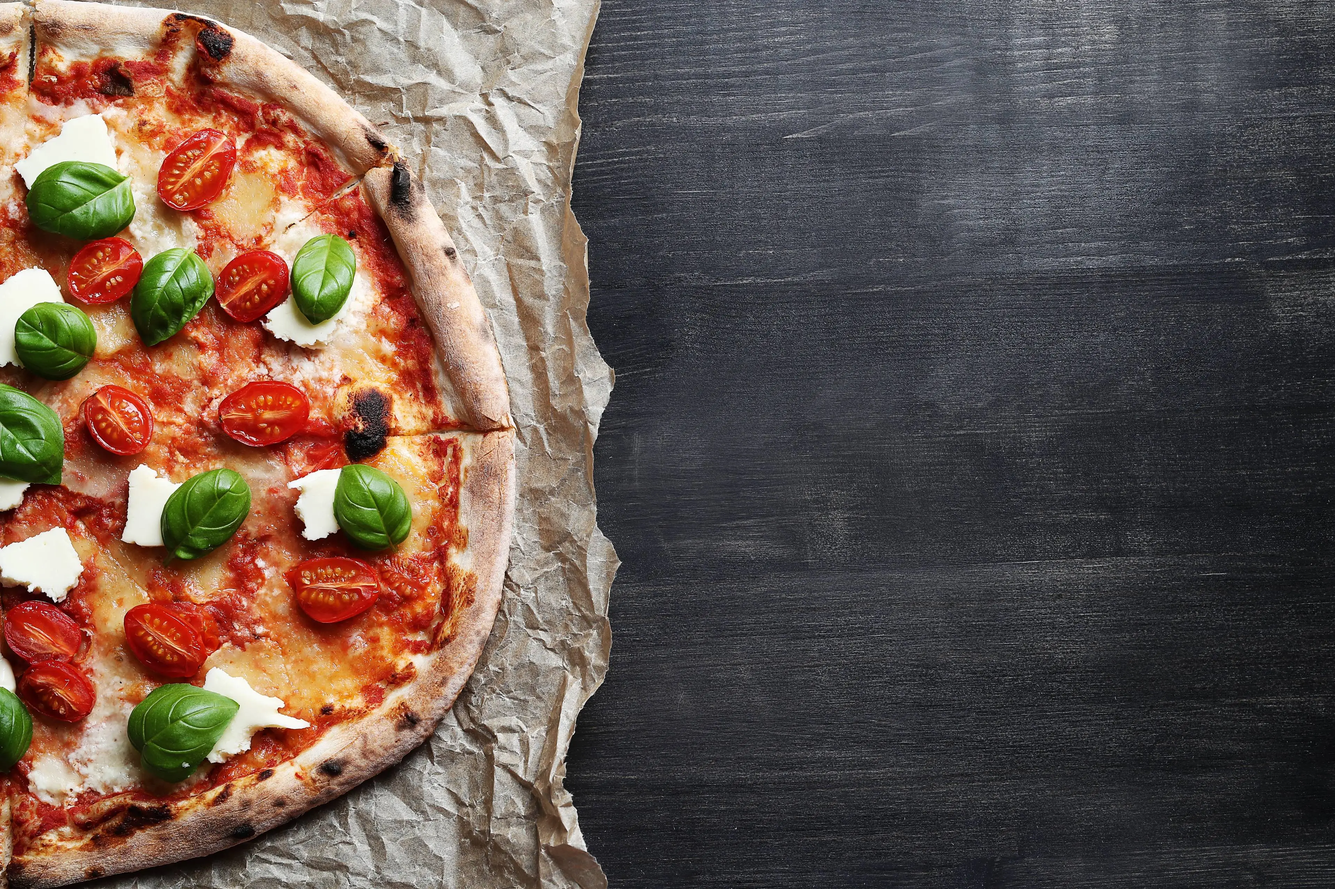
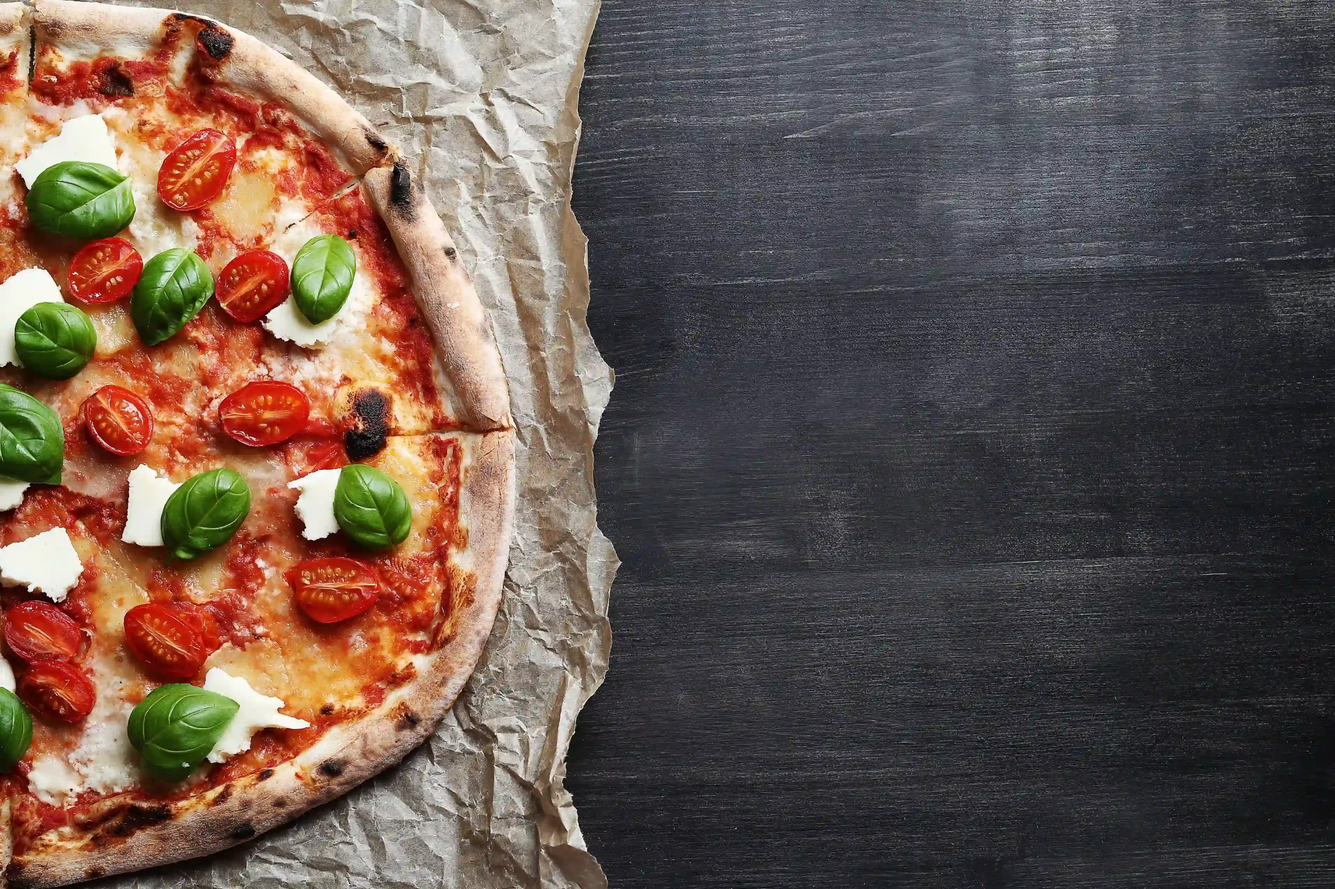
image size converted

diff --git a/src/pages/Home/MenuContent/MenuContent.js b/src/pages/Home/MenuContent/MenuContent.js
@@ -2,9 +2,9 @@ import React, { useState } from "react";
 import { Link } from "react-router-dom";
 import MenuItem from "../../Menu/MenuItems/MenuItem/MenuItem";
 import { getDataByType } from "../../../data/productsData";
-import PizzaImg from "../../../asset/homePage/top-view-italian-pizza-sticker-white-background-removebg.png";
-import SpaghettiImg from "../../../asset/homePage/top-view-paghetti-carbonara-dish-sticker-white-removebg.png";
-import ReisgerichteImg from "../../../asset/homePage/detailed-gopalkala-illustration-removebg.png";
+import PizzaImg from "../../../asset/homePage/top-view-italian-pizza-sticker-white-background-removebg-low.webp";
+import SpaghettiImg from "../../../asset/homePage/top-view-paghetti-carbonara-dish-sticker-white-removebg-low.webp";
+import ReisgerichteImg from "../../../asset/homePage/detailed-gopalkala-illustration-removebg-low.webp";
 
 import "./MenuContent.css";
 
@@ -28,7 +28,14 @@ const MenuContent = () => {
       <div className="home-cards-holder">
         <div className="home-item">
           <div className="middle-circle" />
-          <img className="pizza-img" alt="Pizza" src={PizzaImg}></img>
+          <img
+            className="pizza-img"
+            alt="Pizza"
+            src={PizzaImg}
+            loading="lazy"
+            sizes="200px"
+            srcSet={PizzaImg + " 200w"}
+          ></img>
           <MenuItem
             key={getDataByType("Pizza")[randomPizza].id}
             data={getDataByType("Pizza")[randomPizza]}
@@ -36,7 +43,14 @@ const MenuContent = () => {
         </div>
         <div className="home-item">
           <div className="middle-circle" />
-          <img className="pizza-img" alt="Spaghetti" src={SpaghettiImg}></img>
+          <img
+            className="pizza-img"
+            alt="Spaghetti"
+            src={SpaghettiImg}
+            loading="lazy"
+            sizes="200px"
+            srcSet={SpaghettiImg + " 200w"}
+          ></img>
           <MenuItem
             key={getDataByType("Spaghetti")[randomSpaghetti].id}
             data={getDataByType("Spaghetti")[randomSpaghetti]}
@@ -48,6 +62,9 @@ const MenuContent = () => {
             className="pizza-img reis-img"
             alt="Reisgericht"
             src={ReisgerichteImg}
+            loading="lazy"
+            sizes="200px"
+            srcSet={ReisgerichteImg + " 200w"}
           ></img>
           <MenuItem
             key={getDataByType("Reisgerichte")[randomReisgerichte].id}

diff --git a/src/components/Navbar/Navbar.js b/src/components/Navbar/Navbar.js
@@ -6,7 +6,7 @@ import { ShowContext } from "../../context/ShowContext";
 import { FaBars, FaTimes, FaShoppingCart } from "react-icons/fa";
 
 import "./Navbar.css";
-import logo from "../../asset/rustica.webp";
+import logo from "../../asset/rustica-low.webp";
 import CartBar from "../CartBar/CartBar";
 
 const Navbar = () => {
@@ -61,8 +61,9 @@ const Navbar = () => {
                     className="logo"
                     src={logo}
                     alt="logo"
-                    width={200}
-                    height={55}
+                    loading="lazy"
+                    sizes="75px"
+                    srcSet={logo + " 200w"}
                   />
                 </Link>
                 <span className="info-zeit">

diff --git a/src/pages/Home/Hero/Hero.css b/src/pages/Home/Hero/Hero.css
@@ -1,16 +1,3 @@
-/*.hero-img {
-  width: 100%;
-  height: calc(100vh + 175px);
-  background-image: url("../../../asset/pizza-time-tasty-homemade-traditional-pizza-italian-recipe-low.webp");
-  background-repeat: no-repeat;
-  background-position: top;
-  background-size: cover;
-  display: grid;
-  grid-template-columns: 1fr 1fr;
-  grid-template-areas: ". content-a";
-  position: relative;
-  border-radius: 0 0 30% 0;
-}*/
 .hero-container {
   width: 100%;
   height: calc(100vh);
@@ -23,7 +10,7 @@
 .hero-image {
   position: absolute;
   width: 100%;
-  height: calc(100vh);
+  height: 100vh;
   top: 0;
   left: 0;
   z-index: -1;

diff --git a/src/pages/Home/Hero/Hero.js b/src/pages/Home/Hero/Hero.js
@@ -35,7 +35,10 @@ const Hero = () => {
         className="hero-image"
         alt="Pizza auf Schwarzen Brett"
         src={window.innerWidth <= 800 ? imgH2 : imgH1}
-        style={{ objectFit: "cover" }}
+        loading="lazy"
+        style={{ objectFit: "cover", objectPosition: "center" }}
+        sizes="100vw"
+        srcSet={window.innerWidth <= 800 ? imgH2 + " 1600w" : imgH1 + " 1600w"}
       />
     </div>
   );
